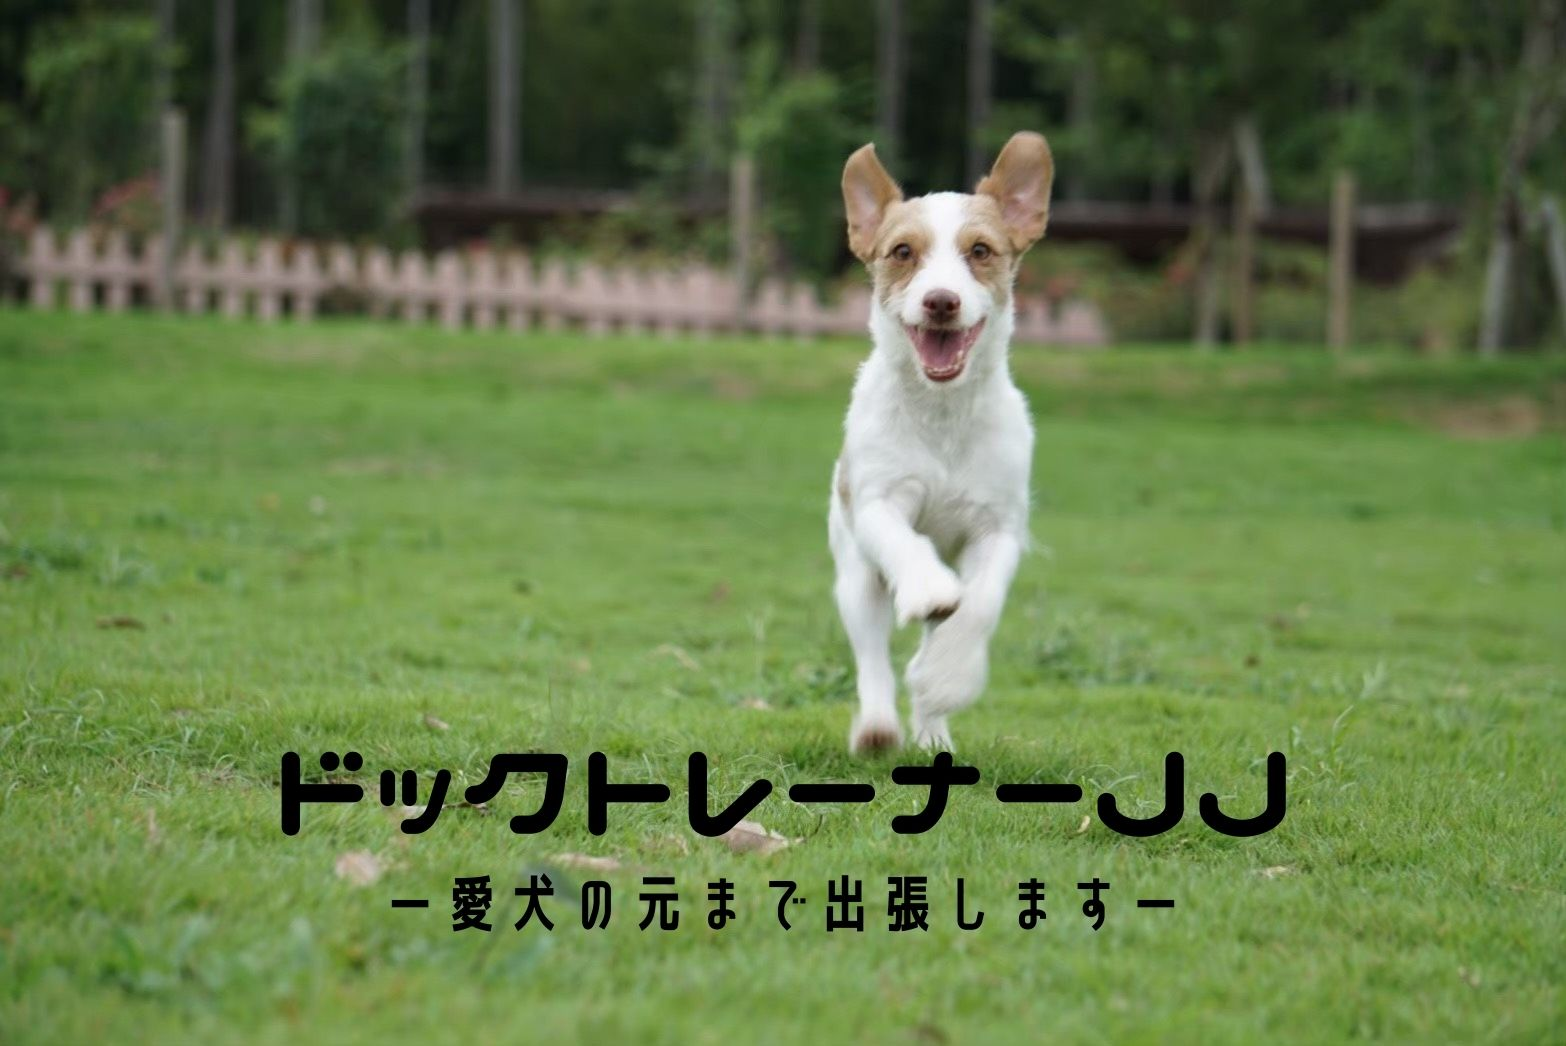
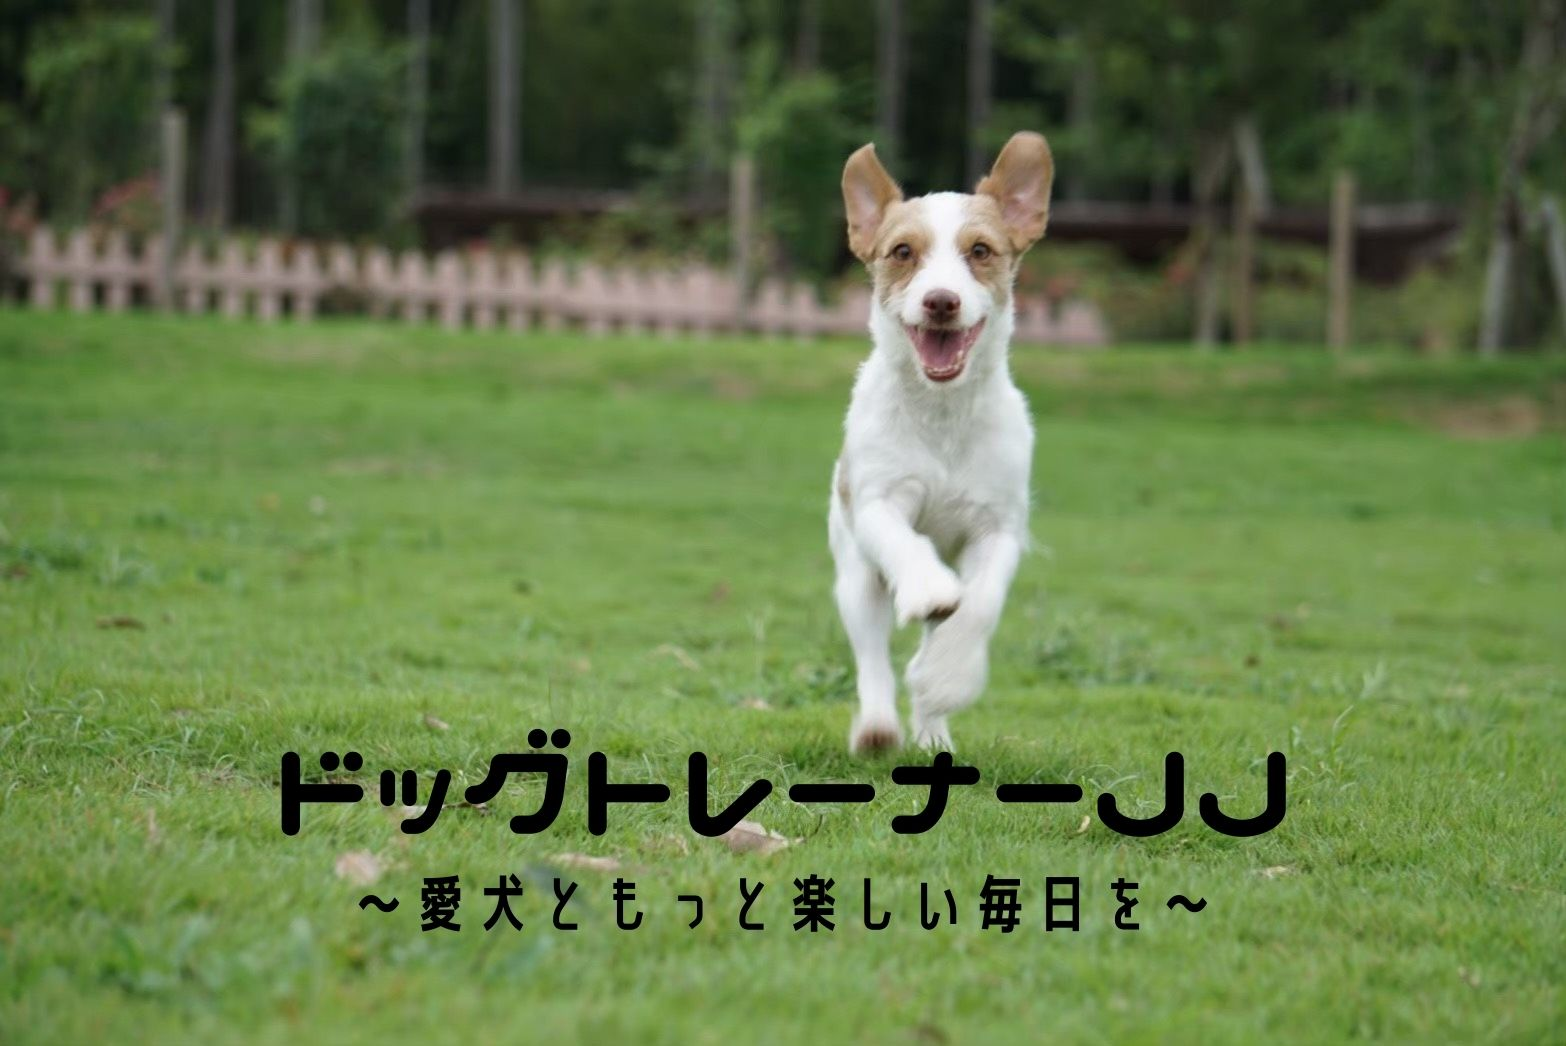
Add files via upload

Changed region(s): [[0.2146, 0.826, 0.7663, 0.8872], [0.3372, 0.673, 0.3678, 0.7342]]

diff --git a/index.html b/index.html
@@ -5,8 +5,11 @@
 <meta http-equiv="X-UA-Compatible" content="IE=edge">
 <title>ドックトレーナーJJ</title>
 <meta name="viewport" content="width=device-width, initial-scale=1">
-<meta name="description" content="出張ドックトレーナーだよーーーーーーーー
-ーーーーーーーーーーーーーーーーーーーん">
+<meta name="description" content="ドッグトレーニングJJはトレーナーがご自宅、
+いつものお散歩コース、(公園、河川敷)にお伺いします。
+
+環境の変化によるストレス・不安感なく出来る他に、
+普段の生活環境をみることで問題行動や問題行動をする前に適切なトレーニングが行えます。">
 <meta name="keywords" content="ドックトレーナー,犬,
                                犬のしつけ,ブリーダー,お利口な犬">
 <link rel="stylesheet" href="css/style.css">
@@ -39,13 +42,13 @@
 <!--
 <li><a href="about.html">About</a></li>
 <li><a href="product.html">Product</a></li>
--->
 <li><a href="contact.html">Contact</a></li>
+-->
 </ul>
 </nav>
 
 <div id="contents">
-
+<!--
 <section id="new" class="box1">
 
 <h2><span>What's New</span></h2>
@@ -67,12 +70,16 @@
 </dl>
 
 </section>
-<!--/#new-->
-
+-->
 <section class="box1">
 
-<h2><span>サービス内容</span></h2>
+<h2><span>ドッグトレーニングJJとは</span></h2>
+  <p>ドッグトレーニングJJはトレーナーがご自宅、
+  いつものお散歩コース、(公園、河川敷)にお伺いします。<br>
 
+  環境の変化によるストレス・不安感なく出来る他に、
+  普段の生活環境をみることで問題行動や問題行動をする前に適切なトレーニングが行えます。<p>
+<!--
 <section class="box1 bg2">
   <h3>出張訓練</h3>
   <p>直接愛犬を指導します。<p>
@@ -82,29 +89,60 @@
 <h3>しつけ教室</h3>
 <p>正しいしつけの仕方を伝授致します。<p>
 </section>
-
+-->
 </section>
 
 <section class="box1">
   <h2><span>料金</span></h2>
-  <p>表の差し込み<p>
+  <div style="text-align: center">
+    <img src="images/ryoukinn.jpg" width="400" height="400"
+    alt="料金表" >
+  </div>
+
 </section>
 
 <section class="box1">
   <h2><span>サービス利用可能なエリア</span></h2>
-  <p>表の差し込み<p>
+  <p>出張可能エリア
+  揖斐郡、大垣市、安八郡、不破郡
+
+  その他県内、近隣県も◎<p>
 </section>
 
-<section class="box1">
-  <h2><span>実績</span></h2>
-  <p>過去指導した際の写真とか学校での写真とか<p>
+<section class="box1 bg2">
+  <h2><span>プロフィール</span></h2>
+    <div style="text-align: center">
+      <p>トレーナー 野原樹梨<br>
+        JDAホームドッグトレーナー1級<br>
+        愛玩動物飼養管理士2級<br>
+        パートナー<br>
+        イタリアングレーハウンド bibi<br>
+        ジャックラッセルテリア ジェイ<br><br>
+        動物取扱業<br>
+        訓練 西保揖第200号-040073<br>
+        動物取扱責任者 野原樹梨
+      <p>
+    </div>
+</section>
+
+<section class="box1 bg2">
+  <h2><span>お問い合わせ</span></h2>
+  <div style="text-align: center">
+    <p>メール<br>
+      <address>
+        <a href="mailto:dogtraining_jj@gmail.com">dogtraining_jj@gmail.com</a>
+      </address><br>
+      インスタ<br>
+      <a href="https://instagram.com/dogtraining_jj?igshid=61v0f3y0mwyn">dogtraining.jj</a>
+    <p>
+  </div>
 </section>
 
 </div>
 <!--/#contents-->
 
 <footer>
-<small>Copyright&copy; <a href="index.html">出張ドックトレーナー</a> JJ</small>
+<small>Copyright&copy; <a href="index.html">dogtraining.jj</a></small>
 <span class="pr">《<a href="https://template-party.com/" target="_blank">Web Design:Template-Party</a>》</span>
 </footer>
 

diff --git a/css/style.css b/css/style.css
@@ -20,7 +20,7 @@ body {
 	padding: 0px;
 	color: #545454;	/*全体の文字色*/
 	font-family: "M PLUS Rounded 1c", "ヒラギノ丸ゴ Pro", "Hiragino Maru Gothic Pro","ヒラギノ角ゴ Pro", "Hiragino Kaku Gothic Pro", "メイリオ", Meiryo, Osaka, "ＭＳ Ｐゴシック", "MS PGothic", sans-serif;	/*フォント種類*/
-	font-size: 15px;		/*文字サイズ*/
+	font-size: 20px;		/*文字サイズ*/
 	line-height: 2.5;		/*行間*/
 	background: #f7f4f0;	/*背景色*/
 	-webkit-text-size-adjust: none;
@@ -35,7 +35,7 @@ iframe {width: 100%;}
 /*リンク（全般）設定
 ---------------------------------------------------------------------------*/
 a {
-	color: #545454;		/*リンクテキストの色*/
+	color: royalblue;		/*リンクテキストの色*/
 	transition: 0.5s;	/*マウスオン時の移り変わるまでの時間設定。0.5秒。*/
 }
 a:hover {
@@ -64,7 +64,7 @@ header {
 }
 /*ロゴ画像*/
 header #logo img {
-	width: 25%;		/*画像の幅*/
+	width: 10%;		/*画像の幅*/
 }
 /*トップページのロゴ画像への追加指定*/
 .home header #logo img {
@@ -252,7 +252,7 @@ footer .pr {display: block;}
 }
 /*bg2タイプの背景色*/
 .bg2 {
-	background: transparent;	/*背景を透明にする*/
+	background: #fff;	/*背景を透明にする*/
 	border: 2px dashed #545454;	/*枠線の幅、線種、色*/
 }
 
